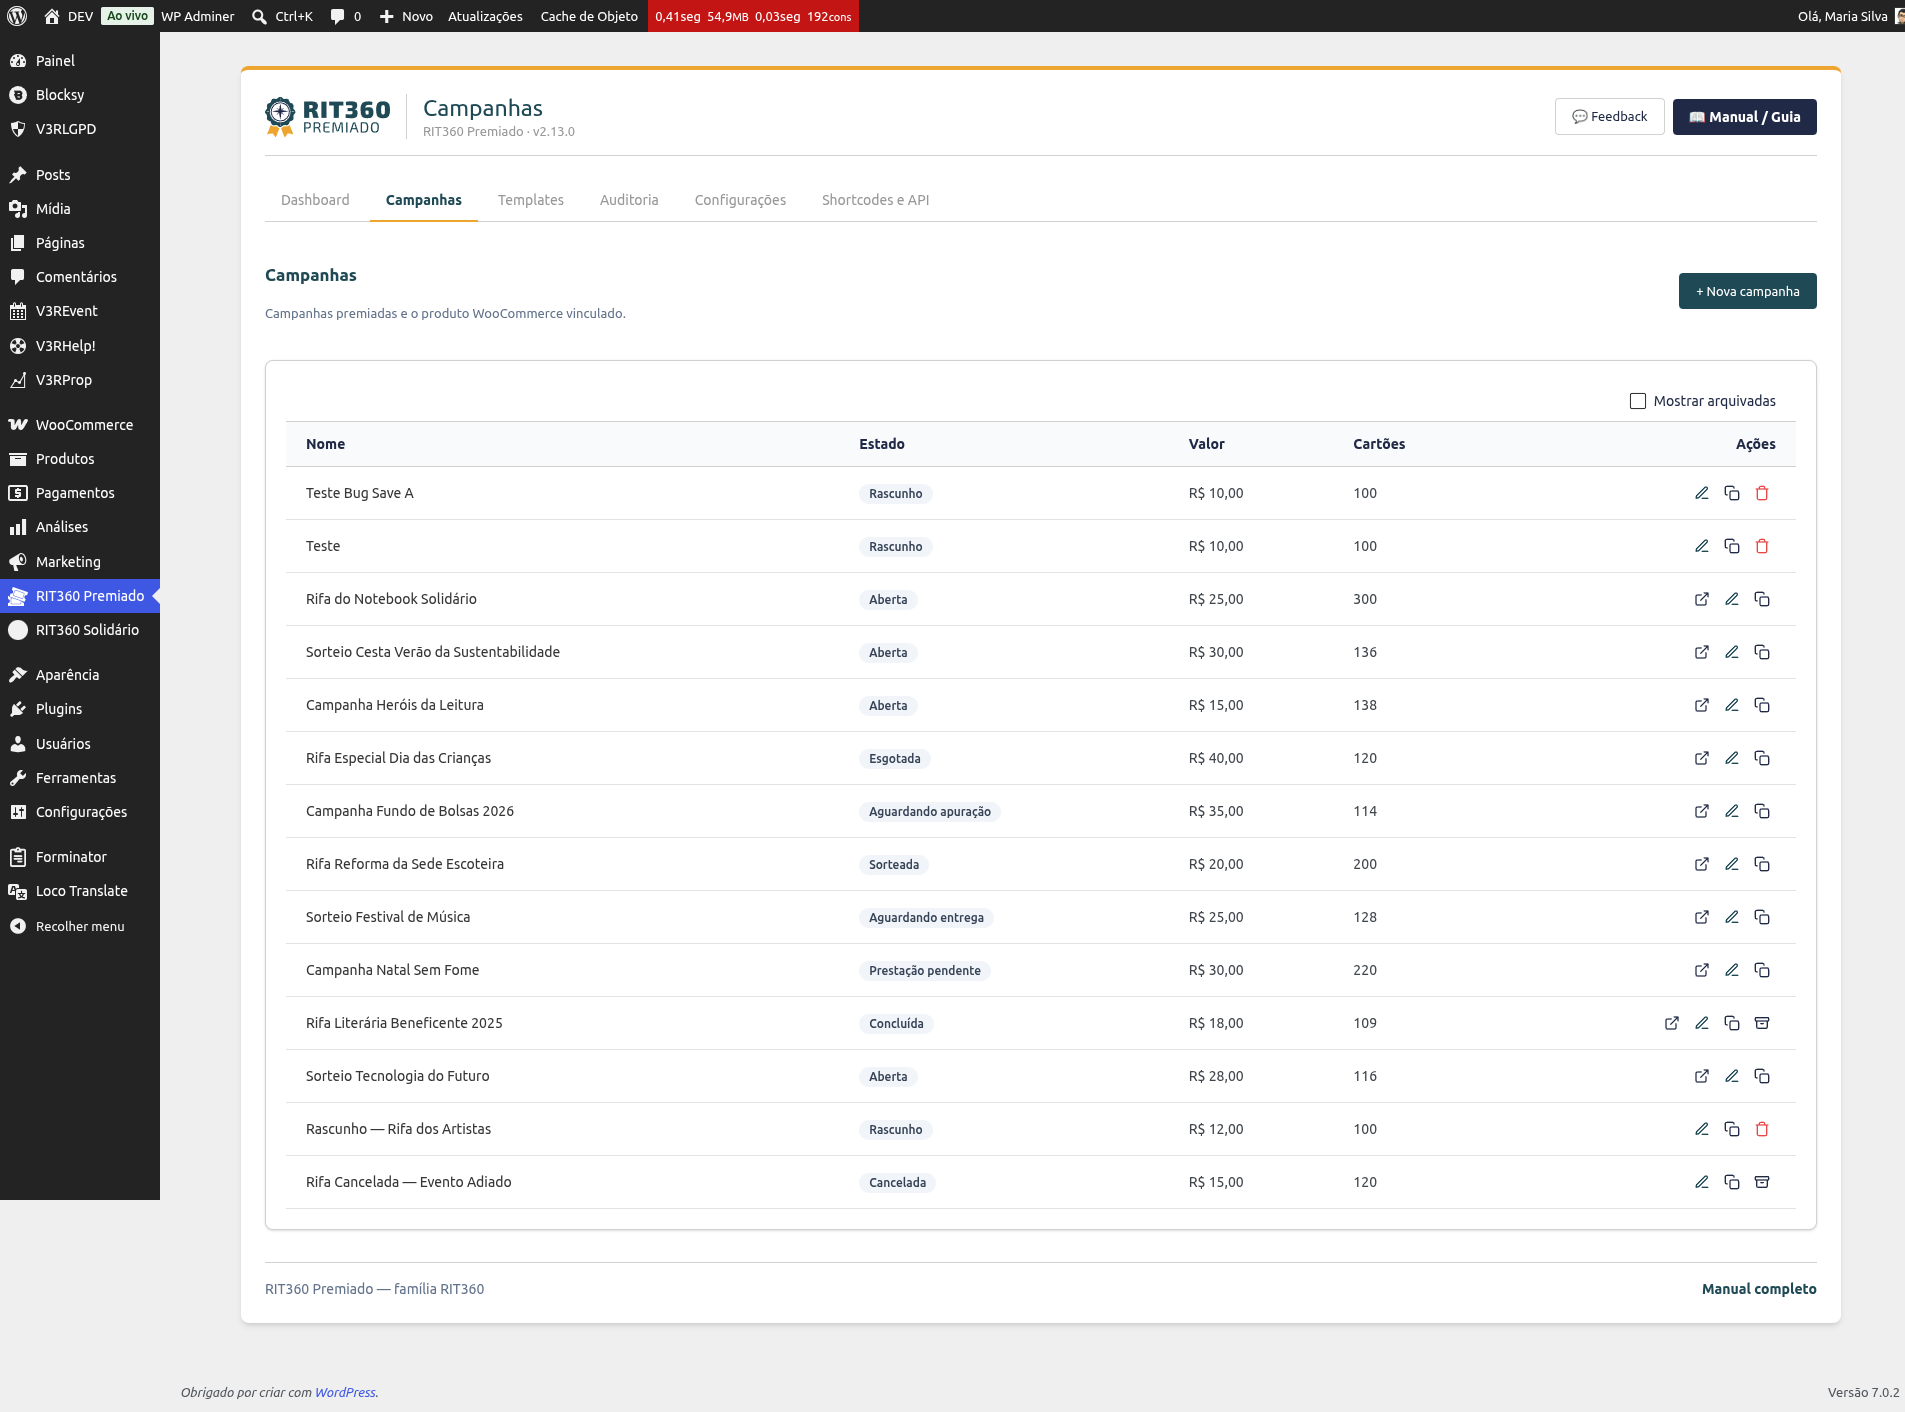
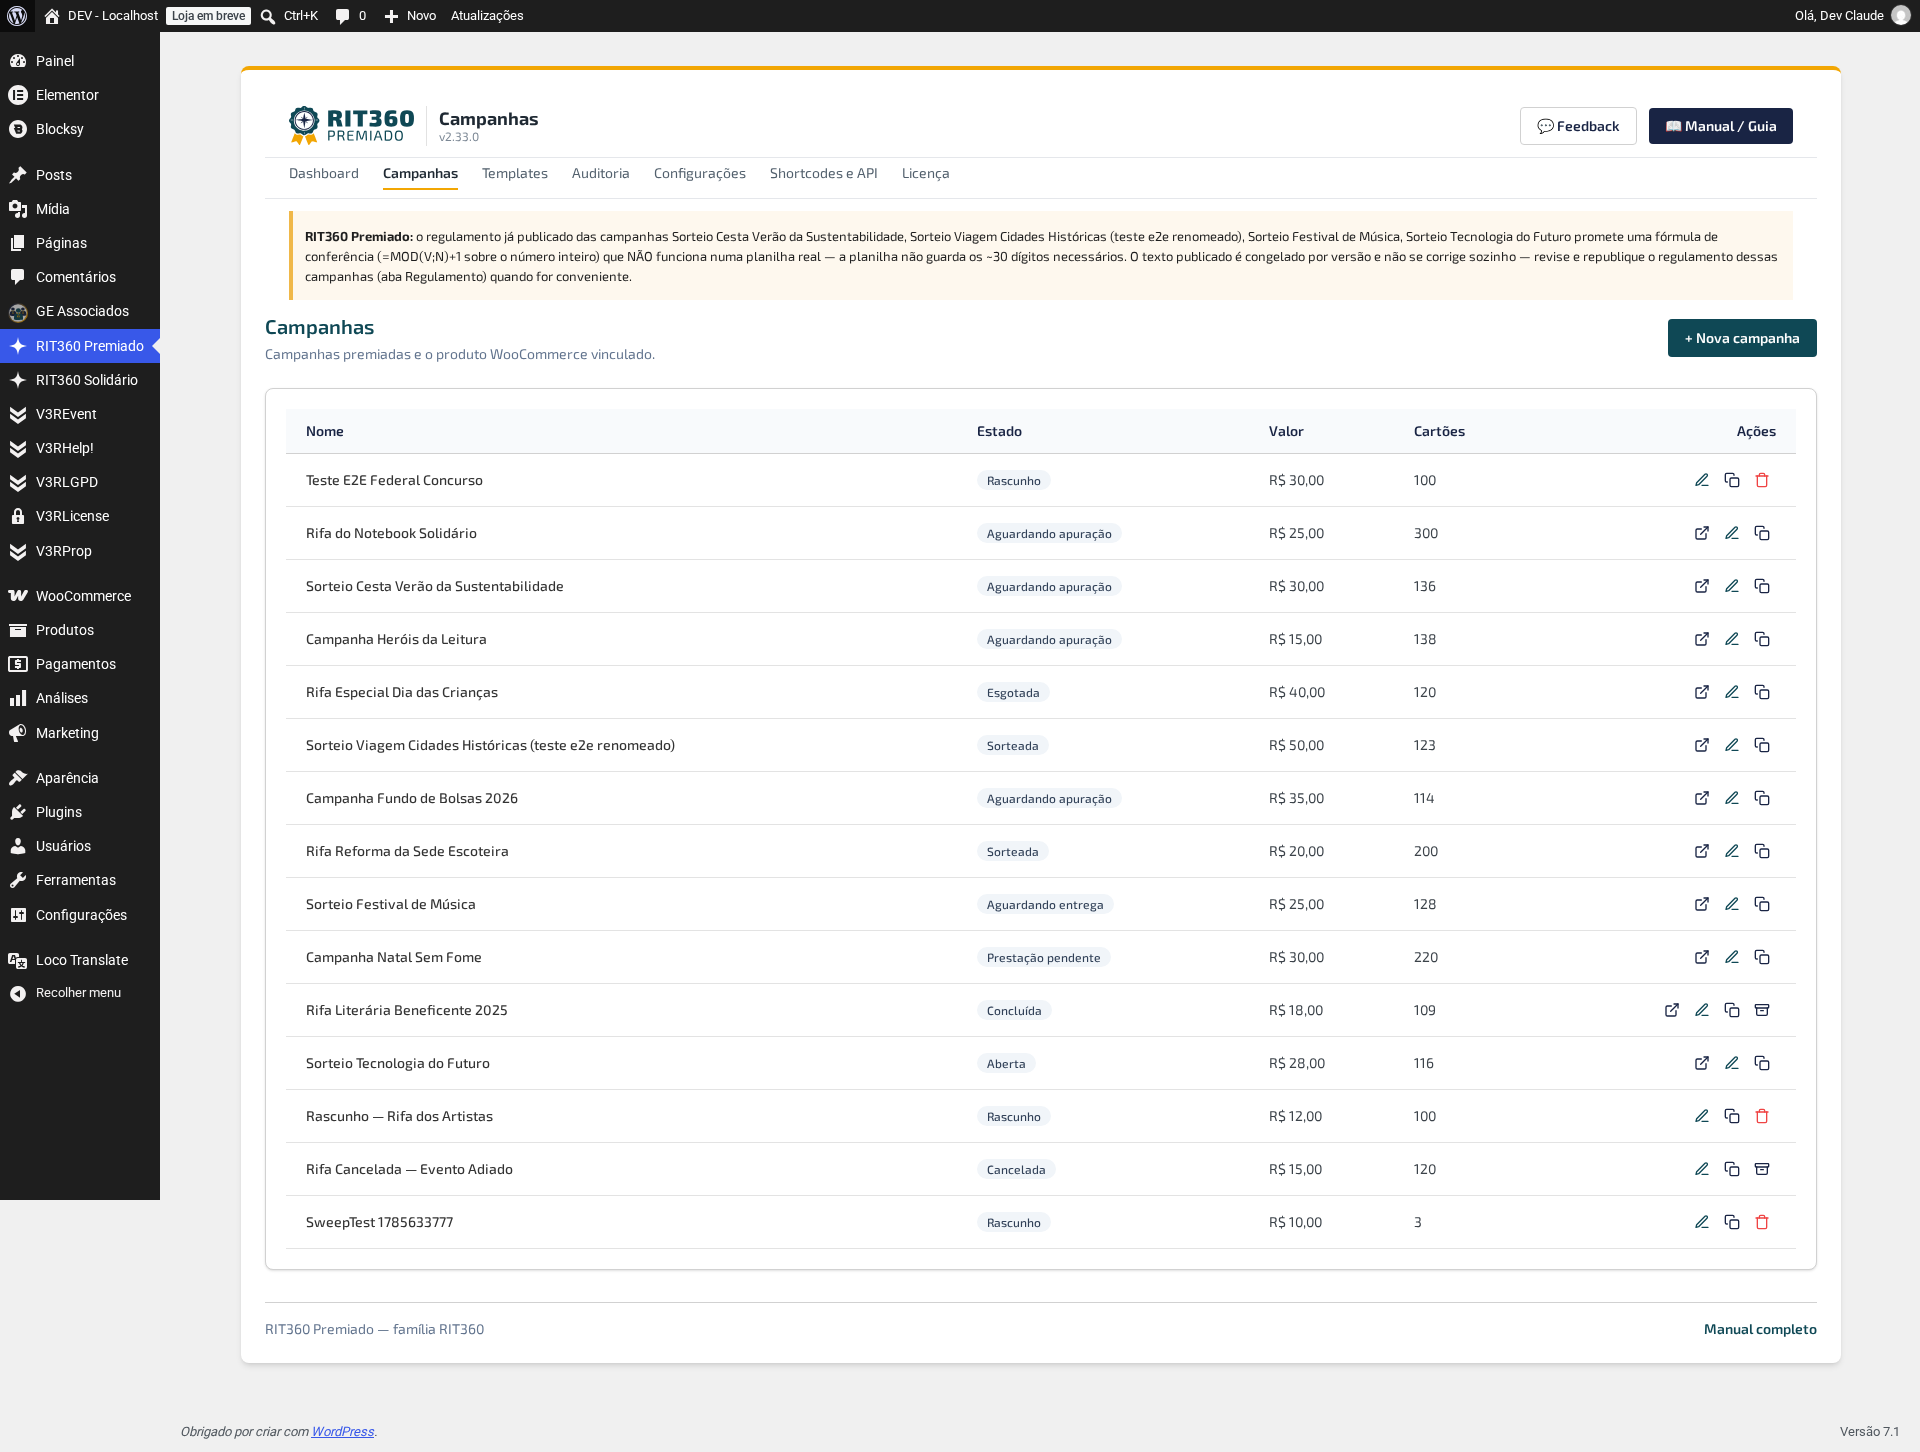
docs(manual): cabeçalho e navegação da família RIT360 (#212, v2.33.0)
Atualiza Primeiros passos com o novo cabeçalho e barra de abas
compartilhados da família RIT360 (ícone de menu, traço âmbar na aba
ativa, faixa própria de avisos, layout mobile empilhado), recaptura as
telas afetadas em desktop e mobile, e documenta em Papéis a mensagem
"Você não tem permissão para acessar esta tela." para quem abre uma
aba fora do seu papel. Novidades ganha a entrada da versão 2.33.

diff --git a/primeiros-passos.md b/primeiros-passos.md
@@ -4,9 +4,9 @@ nav_order: 2
 permalink: /primeiros-passos/
 role: admin
 routes: ["#/", "#/organizacao", "#/campanhas"]
-screenshots: [bp-01-dashboard, admin-abas-navegacao]
+screenshots: [bp-01-dashboard, admin-abas-navegacao, admin-abas-navegacao-mobile, rit-menu-icone]
 source_docs: [PRODUCT.md, PRD_Bussola_Premiada.md]
-last_verified: 2026-07-23
+last_verified: 2026-09-14
 status: publicado
 ---
 
@@ -41,15 +41,23 @@ Você precisa de:
 
 ## Passo 1 — Abra o painel
 
-No menu lateral do WordPress, clique em **RIT360 Premiado** (uma entrada única). Você chega ao **Painel**, o cockpit da ferramenta: um resumo das campanhas, da arrecadação e dos próximos sorteios.
+No menu lateral do WordPress, clique em **RIT360 Premiado** (uma entrada única, com o mesmo ícone que os outros produtos da família RIT — é o que ajuda a reconhecer rápido qual é o nosso, numa lista com plugins de fabricantes diferentes). Você chega ao **Dashboard**, o cockpit da ferramenta: um resumo das campanhas, da arrecadação e dos próximos sorteios.
+
+![Ícone do RIT360 Premiado no menu lateral do WordPress, igual ao dos outros produtos da família RIT](/assets/screenshots/rit-menu-icone.png)
 
 ![Painel do RIT360 Premiado](/assets/screenshots/bp-01-dashboard.png)
 
-> **A partir da versão 2.9**, a navegação entre as seções (Painel, Campanhas, Templates, Auditoria, Configurações, Shortcodes e API) fica numa **barra de abas** dentro da própria tela do plugin, logo abaixo do cabeçalho — não mais em submenus do WordPress. Cada usuário vê só as abas que pode acessar.
->
-> ![Barra de abas de navegação](/assets/screenshots/admin-abas-navegacao.png)
+O painel do RIT360 Premiado usa o **cabeçalho e a barra de navegação da família RIT360**, os mesmos que você encontra nos outros produtos RIT — o que muda é só a moldura ao redor da tela; nenhuma função, campo ou permissão muda com isso.
 
-No topo, ao lado da logo, aparece o nome da seção em que você está e a versão do plugin. O botão **📖 Manual / Guia** leva sempre a esta documentação.
+No cabeçalho, ao lado da logo, aparece o nome da tela em que você está e a versão do plugin instalada; à direita ficam os botões **💬 Feedback** e **📖 Manual / Guia**, que leva sempre a esta documentação. Logo abaixo, a **barra de abas** leva a cada seção — **Dashboard, Campanhas, Templates, Auditoria, Configurações, Shortcodes e API e Licença** — e a aba em que você está aparece com um **traço âmbar** embaixo do nome. Cada pessoa vê só as abas que pode acessar; se você tinha um endereço antigo de alguma seção salvo nos favoritos, ele continua levando à tela certa.
+
+Quando o WordPress tem algum aviso para mostrar naquela tela (um alerta do plugin, uma pendência), ele aparece numa **faixa própria**, logo abaixo da barra de abas e acima do conteúdo — não mais espalhado pela tela.
+
+![Barra de abas de navegação, com a aba ativa sublinhada em âmbar e a faixa de avisos abaixo dela](/assets/screenshots/admin-abas-navegacao.png)
+
+No **celular**, o cabeçalho e as abas se empilham em vez de ficar lado a lado — a navegação continua toda visível, sem precisar abrir um menu à parte.
+
+![Cabeçalho e barra de abas no celular, com as abas quebrando em linhas](/assets/screenshots/admin-abas-navegacao-mobile.png)
 
 ## Passo 2 — Configure sua organização
 

diff --git a/novidades.md b/novidades.md
@@ -3,15 +3,26 @@ title: "Novidades"
 nav_order: 8
 permalink: /novidades/
 source_docs: [CHANGELOG.md]
-last_verified: 2026-08-09
+last_verified: 2026-09-14
 status: publicado
 ---
 
 # Novidades
 
-O que há de novo no RIT360 Premiado, em linguagem simples. Cada item indica a **versão** do plugin em que a novidade chegou. Você vê a versão instalada no topo do painel, ao lado da logo (ex.: *RIT360 Premiado · v1.2.1*).
+O que há de novo no RIT360 Premiado, em linguagem simples. Cada item indica a **versão** do plugin em que a novidade chegou. Você vê a versão instalada no cabeçalho do painel, logo abaixo do nome da tela (ex.: *Dashboard · v2.33.0*).
 
 > Esta é uma versão amigável do histórico técnico. O registro completo para desenvolvedores fica no `CHANGELOG.md` do projeto.
+
+---
+
+## Versão 2.33 — O painel veste a identidade da família RIT360
+
+- **O cabeçalho e a barra de abas agora são os mesmos dos outros produtos da família RIT360.** Continuam mostrando a logo, o nome da tela, a versão e os botões **Feedback** e **Manual / Guia** — só a moldura muda. A aba em que você está passa a aparecer com um **traço âmbar** embaixo do nome.
+- **As 7 abas continuam as mesmas, na mesma ordem** — Dashboard, Campanhas, Templates, Auditoria, Configurações, Shortcodes e API, Licença — e cada pessoa continua vendo só as que seu papel permite.
+- **Os avisos do WordPress ganharam uma faixa própria**, logo abaixo da barra de abas e acima do conteúdo da tela, em vez de aparecerem espalhados.
+- **O ícone do RIT360 Premiado no menu lateral do WordPress passa a ser o da família RIT** — o mesmo que aparece ao lado dos outros produtos RIT instalados no site.
+- **Endereços antigos de qualquer seção que você tenha salvo nos favoritos continuam funcionando.** Quem abrir um link de uma aba sem ter o papel necessário vê, dentro do painel, a mensagem "Você não tem permissão para acessar esta tela." — veja [Papéis](/papeis/).
+- **Nada muda em função, campo ou permissão de nenhuma tela.**
 
 ---
 

diff --git a/papeis.md b/papeis.md
@@ -3,7 +3,7 @@ title: "Papéis"
 nav_order: 3
 permalink: /papeis/
 source_docs: [PRD_Bussola_Premiada.md#8.25]
-last_verified: 2026-07-05
+last_verified: 2026-09-14
 status: publicado
 ---
 
@@ -12,6 +12,8 @@ status: publicado
 O plugin é usado por pessoas diferentes, com responsabilidades diferentes. Saber em qual papel você está ajuda a achar rápido o que precisa — e mantém cada pessoa com o acesso certo, nem mais, nem menos. As permissões usam as *capabilities* do WordPress e toda mudança de permissão é registrada.
 
 > **Como atribuir um papel:** o Administrador da organização define os papéis na aba **Configurações → Usuários**, marcando um ou mais papéis por pessoa. Uma pessoa pode acumular papéis (as permissões se somam). Passo a passo em [Gerenciar usuários e papéis](/guias/gerenciar-usuarios/).
+>
+> **Se você não tem acesso a uma tela** — por exemplo, abriu um endereço antigo salvo nos favoritos, ou alguém compartilhou um link de uma aba que seu papel não alcança —, o RIT360 Premiado mostra, dentro do próprio painel, a mensagem **"Você não tem permissão para acessar esta tela."** Não é erro: é a barra de abas mostrando só o que cada papel pode ver. Peça ao Administrador da organização o papel correspondente, em [Gerenciar usuários e papéis](/guias/gerenciar-usuarios/).
 
 ## Administrador do plugin
 
